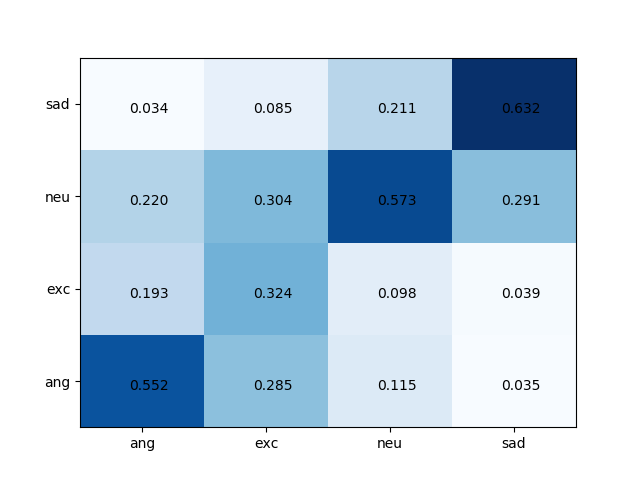
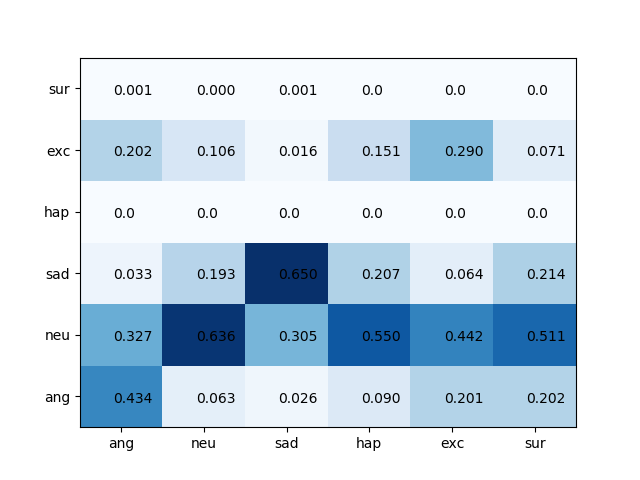
寒假1.24  基本框架

diff --git a/run_recognition.py b/run_recognition.py
@@ -7,36 +7,63 @@ import data_reading
 import training_params
 from sklearn.model_selection import StratifiedKFold
 import os
+def get_heat_map(available_emotions,preds,trues):
+    preds = np.array(preds)  # 预期结果
+    trues = np.array(trues)  # 真实结果
+    class_to_class_precs = np.zeros((len(available_emotions), len(available_emotions)), dtype=float)
+    for cpi, cp in enumerate(available_emotions):
+        for cti, ct in enumerate(available_emotions):
+            if trues[trues == ct].shape[0] > 0:
+                class_to_class_precs[cti, cpi] = preds[(preds == cp) * (trues == ct)].shape[0] / float(
+                    trues[trues == ct].shape[0])
+            else:
+                class_to_class_precs[cti, cpi] = 0.
+
+    fig, ax = plt.subplots()  # 函数返回一个figure图像和一个子图ax的array列表
+    ax.pcolor(class_to_class_precs.T, cmap=plt.cm.Blues)  # 设置颜色
+    # 设置横纵坐标的数值
+    ax.set_xticklabels(available_emotions, minor=False)
+    ax.set_yticklabels(available_emotions, minor=False)
+    # put the major ticks at the middle of each cell 设置横纵坐标大小
+    ax.set_xticks(np.arange(len(available_emotions)) + 0.5, minor=False)
+    ax.set_yticks(np.arange(len(available_emotions)) + 0.5, minor=False)
+    # 设置每个方格的数值
+    for i in range(len(available_emotions)):
+        for j in range(len(available_emotions)):
+            plt.text(i + 0.4, j + 0.4, str(class_to_class_precs[i, j])[:5])
+
+    plt.savefig('training_result.png')
+    plt.close()
 #读取语料库对话音频数据
 np.random.seed(100)
 X =[]
 Y =[]
 preds = []  # 预期结果
 trues = []  # 真实结果
-energies = []
-data_type=1 #{'iemocap_sentences':1,'iemocap_dialog':0}
-get_features=0 #是否重新提取特征
+
+data_type=1 #{'iemocap_sentences':1,'chinese_dataset':0}
+get_data=1 #是否重新读取音频样本
+get_features=1 #是否重新提取特征
 
 if(data_type):
     npy_name='iemocap_sentences.npy'
-    if(os.path.exists(npy_name)):
-        if get_features:
-            iemocap_data=np.load(npy_name)
-            data_extraction.get_features(iemocap_data, training_params.path_to_sentences_samples)
-        X, Y = data_extraction.get_sample(training_params.path_to_sentences_samples)
-    else:
-        iemocap_data = np.array(data_reading.get_iemocap_sentences(training_params.path_to_iemocap))
+    if get_data or not (os.path.exists(npy_name)) :
+        iemocap_data = data_reading.get_iemocap_sentences(training_params.path_to_iemocap)
         np.save(npy_name, iemocap_data)
+    if get_features:
+        iemocap_data = np.load(npy_name)
+        data_extraction.extract_features(iemocap_data, training_params.path_to_sentences_samples)
+    X, Y = data_extraction.get_sample(training_params.path_to_sentences_samples)
+
 else:
-    npy_name = 'iemocap_dialog.npy'
-    if (os.path.exists(npy_name)):
-        if get_features:
-            iemocap_data = np.load(npy_name)
-            data_extraction.get_features(iemocap_data, training_params.path_to_dialog_samples)
-        X, Y = data_extraction.get_sample(training_params.path_to_dialog_samples)
-    else:
-        iemocap_data = np.array(data_reading.get_iemocap_dialog(training_params.path_to_iemocap))
-        np.save(npy_name, iemocap_data)
+    npy_name = 'chinese_dataset.npy'
+    if get_data or not (os.path.exists(npy_name)):
+        chinese_dataset = data_reading.get_chinese_dataset(training_params.path_to_chinese_dataset)
+        np.save(npy_name, chinese_dataset)
+    if get_features:
+        chinese_dataset = np.load(npy_name)
+        data_extraction.extract_features(chinese_dataset, training_params.path_to_chinese_samples)
+    X, Y = data_extraction.get_sample(training_params.path_to_chinese_samples)
 
 
 '''5-fold  cross_validation（K-折交叉验证）'''
@@ -46,10 +73,11 @@ for train, test in kfold.split(X, Y):
     train_y=Y[train]
     test_x=X[test]
     test_y=Y[test]
+
     train_x=data_preprocessing.normalize(train_x)
     test_x=data_preprocessing.normalize(test_x)
 
-    timestep = 50
+    timestep = 40
     train_x = data_preprocessing.pad_sequence(train_x, timestep)
     test_x = data_preprocessing.pad_sequence(test_x, timestep)
     train_y_cat = data_preprocessing.to_categorical(train_y)
@@ -58,14 +86,14 @@ for train, test in kfold.split(X, Y):
     model = training_models.train_lstm(train_x, train_y_cat, test_x, test_y_cat)
     scores = model.predict(test_x)
     prediction = np.array([training_params.available_emotions[np.argmax(t)] for t in scores])  # np.argmax(t) 返回最值所在的索引
-    #print(prediction[prediction ==test_y].shape[0] / float(prediction.shape[0]))
+    print(prediction[prediction ==test_y].shape[0] / float(prediction.shape[0]))
     for i in range(len(prediction)):
         preds.append(prediction[i])
         trues.append(test_y[i])
 
-preds = np.array(preds) # 预期结果
-trues = np.array(trues) # 真实结果
-print ('Total accuracy: ', preds[preds == trues].shape[0] / float(preds.shape[0]))
+    get_heat_map(training_params.available_emotions, preds, trues)
+
+#print ('Total accuracy: ', preds[preds == trues].shape[0] / float(preds.shape[0]))
 
 #音调由声波的频率决定，频率越高音调越高。响度由声波的振幅决定，振幅越高响度越大。音色是由波形的“形”决定的。
 #绘制训练结果的热图 plots confusion matrix aomparing prediction and expected output
@@ -94,31 +122,6 @@ def get_spectrum(signal):
     plt.grid('on')
     plt.show()
 
-def get_heat_map(available_emotions,preds,trues):
-    class_to_class_precs = np.zeros((len(available_emotions), len(available_emotions)), dtype=float)
-    for cpi, cp in enumerate(available_emotions):
-        for cti, ct in enumerate(available_emotions):
-            if trues[trues == ct].shape[0] > 0:
-                class_to_class_precs[cti, cpi] = preds[(preds == cp) * (trues == ct)].shape[0] / float(
-                    trues[trues == ct].shape[0])
-            else:
-                class_to_class_precs[cti, cpi] = 0.
-
-    fig, ax = plt.subplots()  # 函数返回一个figure图像和一个子图ax的array列表
-    ax.pcolor(class_to_class_precs.T, cmap=plt.cm.Blues)  # 设置颜色
-    # 设置横纵坐标的数值
-    ax.set_xticklabels(available_emotions, minor=False)
-    ax.set_yticklabels(available_emotions, minor=False)
-    # put the major ticks at the middle of each cell 设置横纵坐标大小
-    ax.set_xticks(np.arange(len(available_emotions)) + 0.5, minor=False)
-    ax.set_yticks(np.arange(len(available_emotions)) + 0.5, minor=False)
-    # 设置每个方格的数值
-    for i in range(len(available_emotions)):
-        for j in range(len(available_emotions)):
-            plt.text(i + 0.4, j + 0.4, str(class_to_class_precs[i, j])[:5])
-
-    plt.savefig('training_result.png')
-    plt.close()
 get_heat_map(training_params.available_emotions,preds,trues)
 
 #统计不同情绪的音频数量

diff --git a/data_reading.py b/data_reading.py
@@ -2,11 +2,38 @@ import numpy as np
 import os
 import training_params
 import scipy.io.wavfile as wf
+import librosa
+
+def get_chinese_dataset(dir):
+    print('begin reading.....')
+    iemocap_data=[]
+    names_list = os.listdir(dir)  # 返回指定的文件夹包含的文件或文件夹的名字的列表。这个列表以字母顺序。 它不包括 '.' 和'..' 即使它在文件夹中。
+    for name_dir in names_list:
+        path_to_namedir=os.path.join(dir, name_dir)
+        category_dir_list=os.listdir(path_to_namedir)
+        for category_dir in category_dir_list:
+            path_to_categorydir = os.path.join(path_to_namedir, category_dir)
+            wav_file_list = os.listdir(path_to_categorydir)
+            for wav_file in wav_file_list:
+                framerate, samples = wf.read(os.path.join(path_to_categorydir, wav_file))
+                fname = os.path.splitext(wav_file)[0]
+                emotion = category_dir
+                if emotion in training_params.available_emotions:
+                    print(name_dir + '_' + category_dir + '_' + fname)
+                    sentences_data = {}
+                    sentences_data['id'] = name_dir+'_'+category_dir+'_'+fname
+                    sentences_data['emotion'] = emotion
+                    sentences_data['signal'] = samples
+                    iemocap_data.append(sentences_data)
+
+    return np.array(iemocap_data)
 
 def get_iemocap_sentences(dir):
   print('begin reading.....')
   iemocap_data = []
   category=read_category()
+  num = {'ang': 0, 'neu': 0, 'sad': 0, 'hap': 0, 'exc': 0, 'sur': 0,'fru': 0}
+  #{'ang': 1090, 'neu': 1704, 'sad': 1077, 'hap': 595, 'exc': 1041, 'sur': 105, 'fru': 1829}
   for i in range(1, 6):
     path_to_parent = dir +'Session' + str(i) + '/sentences/wav'
     wav_dir_list = os.listdir(path_to_parent)#返回指定的文件夹包含的文件或文件夹的名字的列表。这个列表以字母顺序。 它不包括 '.' 和'..' 即使它在文件夹中。
@@ -14,16 +41,19 @@ def get_iemocap_sentences(dir):
         path_to_wavdir = os.path.join(path_to_parent, wav_dir)
         wav_file_list=os.listdir(path_to_wavdir) #files = [os.path.splitext(f)[0] for f in files]#分离文件名与扩展名,默认返回(fname,fextension)元组，可做分片操作
         for wav_file in wav_file_list:
-            print(wav_file)
-            framerate, samples = wf.read(os.path.join(path_to_wavdir, wav_file))
-            fname=os.path.splitext(wav_file)[0]
+            fname = os.path.splitext(wav_file)[0]
             emotion = category[fname]['emotion']
             if emotion in training_params.available_emotions:
+                num[emotion] = num[emotion] + 1
+                print(wav_file)
+                #samples ,framerate = librosa.load(os.path.join(path_to_wavdir, wav_file),sr=16000)
+                framerate, samples = wf.read(os.path.join(path_to_wavdir, wav_file))
                 sentences_data = {}
                 sentences_data['id'] = fname
                 sentences_data['emotion']= emotion
                 sentences_data['signal'] = samples
                 iemocap_data.append(sentences_data)
+  print(num)
 
   return iemocap_data
 
@@ -86,12 +116,19 @@ def process_iemocap_data(dir):
             fullpath = os.path.join(dirpath, file)
             path_collection.append(fullpath)
     for file in path_collection:
-        extension = os.path.splitext(file)[0]
-        if "." in extension:
+        if "." in os.path.splitext(file)[0]:
             os.remove(file)
         if "pk" in os.path.splitext(file)[1]:
             os.remove(file)
-
+        if "lab" in os.path.splitext(file)[1]:
+            os.remove(file)
+        if "peak" in os.path.splitext(file)[1]:
+            os.remove(file)
+        if "tag" in os.path.splitext(file)[1]:
+            os.remove(file)
+        if "ini" in os.path.splitext(file)[1]:
+            os.remove(file)
+#process_iemocap_data(training_params.path_to_chinese_dataset)
 #立体声to单声道
 def stereo2mono(x):
     '''

diff --git a/data_extraction.py b/data_extraction.py
@@ -4,30 +4,37 @@ from training_params import *
 import data_features
 import data_preprocessing
 import os
+import training_params
+import shutil
 #提取音频特征 并存放到csv文件中
-def get_features(data, save_path,save=True):
-  for index, item  in enumerate(data):
-    if index % 500 == 0:
-      print (index, ' out of ', len(data))
+def extract_features(data, save_path,save=True):
+    print('begin extract.....')
+    for index, item in enumerate(data):
+        if index % 200 == 0:
+            print(index, ' out of ', len(data))
 
-    window_sec = 0.2
-    window_n = int(framerate * window_sec)
-    samples = np.array(item ['signal'], dtype='int16')
-    st_features = data_features.stFeatureExtraction(samples, framerate, window_n, window_n / 2).T
+        window_sec = 0.2
+        window_n = int(framerate * window_sec)
+        samples = np.array(item['signal'], dtype=data.dtype)
+        st_features = data_features.stFeatureExtraction(samples, framerate, window_n, window_n / 2).T
 
-    x = []
-    y = []
-    #在每行后面添加情绪标签
-    for f in st_features:
-      if f[1] > 1.e-4:
-        x.append(f)
-        y.append(item ['emotion'])
-    x = np.array(x, dtype=float)
-    y = np.array(y)
+        x = []
+        y = []
+        # 在每行后面添加情绪标签
+        for f in st_features:
+            if f[1] > 1.e-4:
+                x.append(f)
+                y.append(item['emotion'])
+        x = np.array(x, dtype=float)
+        y = np.array(y)
 
-    if save:
-        save_sample(x, y, save_path + item['id'] + '.csv')
-  return x, y
+        if save:
+            try:
+                shutil.rmtree(save_path)
+            except:
+                os.mkdir(save_path)
+            save_sample(x, y, save_path + item['id'] + '.csv')
+    return x, y
 
 #讲特征数据存储到csv文件中 并在x的每一行后加上相对应的y
 def save_sample(x, y, name):
@@ -45,7 +52,7 @@ def load(name):
     x = []
     y = []
     for row in r:
-        if (len(row) != 0):#因为csv文件中存在一些行为空值的情况
+        if (len(row) != 0) and (row[-1] in training_params.available_emotions):#因为csv文件中存在一些行为空值的情况
             x.append(row[:-1])
             y.append(row[-1])
   return np.array(x, dtype=float), np.array(y)

diff --git a/test1.py b/test1.py
@@ -1,0 +1,33 @@
+import librosa
+import matplotlib.pyplot as plt
+import numpy as np
+import training_models
+import data_preprocessing
+import data_extraction
+import data_reading
+from training_params import *
+from sklearn.model_selection import StratifiedKFold
+import os
+import training_params
+import wave
+import scipy.io.wavfile as wavfile
+import shutil
+shutil.rmtree(training_params.path_to_sentences_samples)
+os.mkdir('要清空的文件夹名')
+filename='C:/Users/wangzi/Desktop/大创资料/语料库/chinese_dataset/liuchanhg/fear/210.wav'
+y, sr = librosa.load(filename,sr=16000)
+wf = wave.open(filename, mode="r")
+nframes = wf.getnframes()
+framerate = wf.getframerate()
+#读取完整的帧数据到str_data中，这是一个string类型的数据
+str_data = wf.readframes(nframes)
+wave_data = np.fromstring(str_data, dtype=np.short)
+fs, signal = wavfile.read(filename)
+# Signal normalization
+signal = np.double(signal)
+signal = signal / (2.0 ** 15) #2的15次方
+DC = signal.mean()  #求平均值
+STD = np.std(signal) #求标准差
+MAX = (np.abs(signal)).max()
+signal = (signal - DC) / STD
+a=1

diff --git a/training_params.py b/training_params.py
@@ -1,5 +1,8 @@
-available_emotions = ['ang', 'exc', 'neu', 'sad']
+#available_emotions = ['angry',  'fear', 'neutral','sad','surprise']
+available_emotions = ['ang', 'neu','sad','hap','exc','sur','fru']
 path_to_iemocap='D:/IEMOCAP/'
+path_to_chinese_dataset='C:/Users/wangzi/Desktop/大创资料/语料库/chinese_dataset'
 path_to_sentences_samples = 'D:/IEMOCAP/sentences_csv/'
 path_to_dialog_samples = 'D:/IEMOCAP/dialog_csv/'
+path_to_chinese_samples = 'D:/IEMOCAP/chinese_csv/'
 framerate=16000

diff --git a/training_models.py b/training_models.py
@@ -14,7 +14,7 @@ import matplotlib.pyplot as plt
 
 # train LSTM NN
 def train_lstm(x, y, xt, yt):
-    batch_size = 512
+    batch_size = 256
     nb_epoch = 25
     timestep = x[0].shape[0]
     inputdim=x[0].shape[1]
